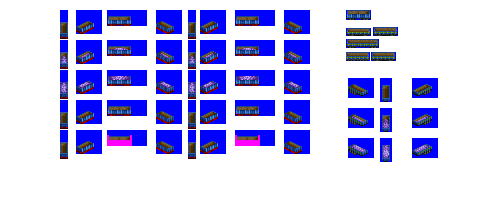
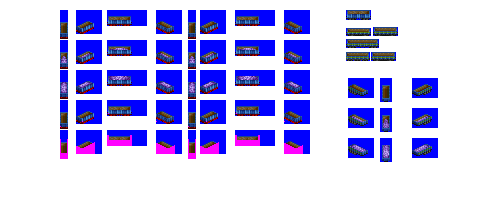
Change: gen 3B open car

Changed region(s): [[0.3, 0.72, 0.45, 0.81], [0.12, 0.69, 0.21, 0.81], [0.57, 0.72, 0.63, 0.78]]

diff --git a/src/vehicles/open_cars.py b/src/vehicles/open_cars.py
@@ -59,7 +59,8 @@ def main():
 
     consist.add_unit(type=FreightCar,
                      cargo_length=3,
-                     vehicle_length=6)
+                     vehicle_length=6,
+                     chassis='4_axle_gapped_24px')
 
 
     consist = OpenCarConsist(roster='pony',
